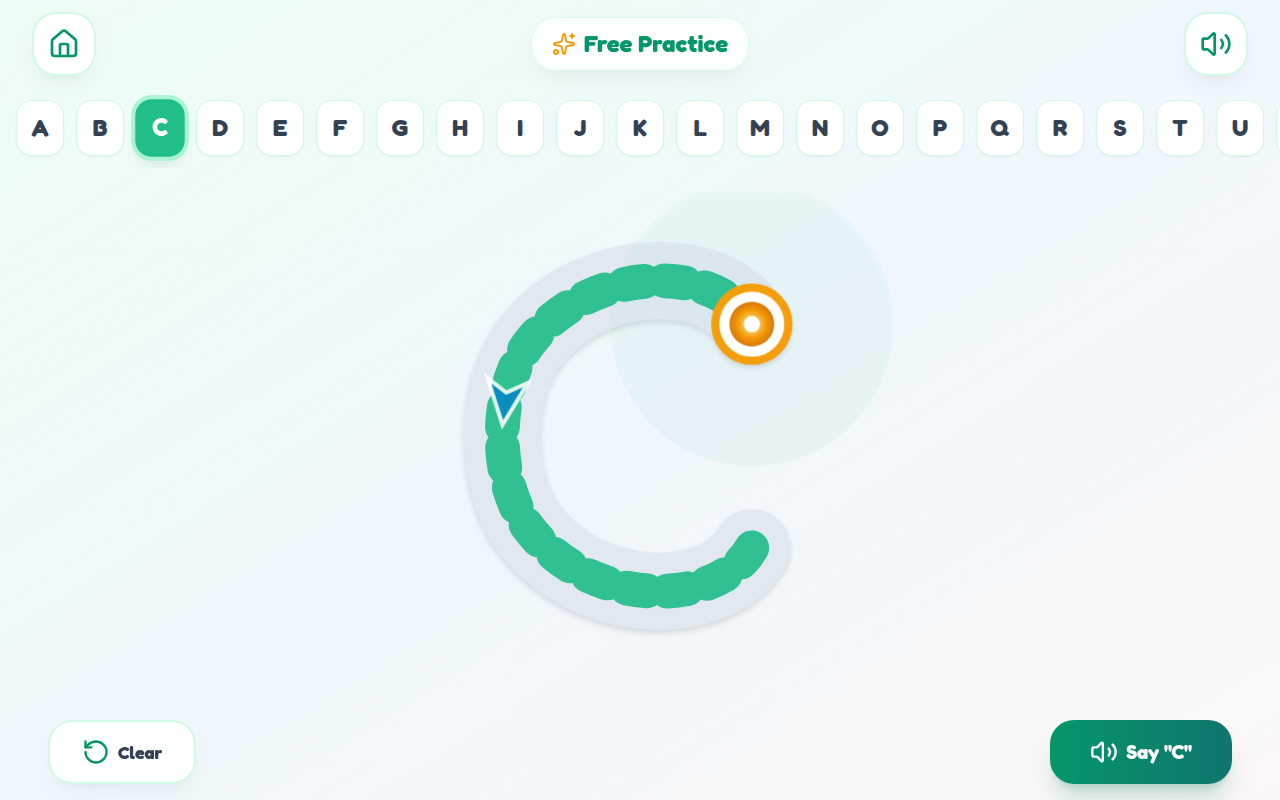
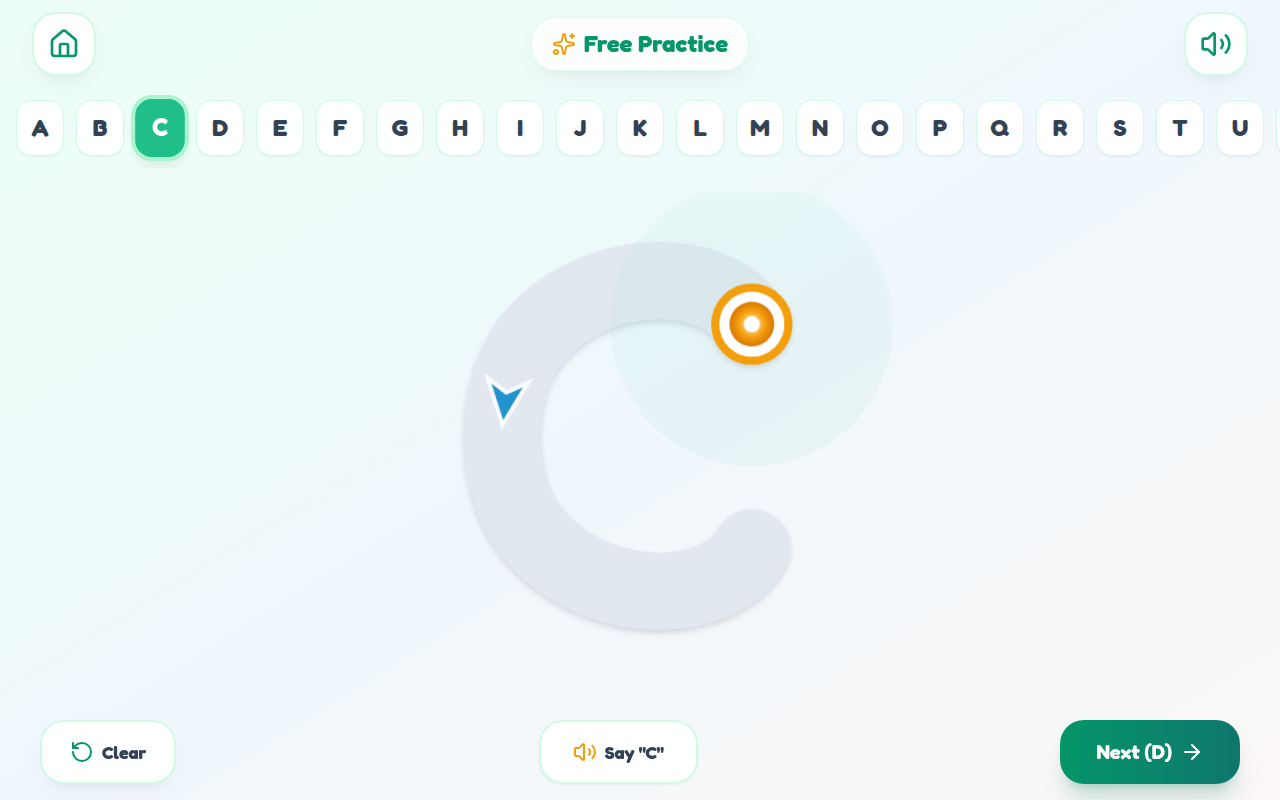
fix: remove inner dashed blue line from tracer guide, showing only directional arrow

diff --git a/src/components/LetterTracer.tsx b/src/components/LetterTracer.tsx
@@ -428,30 +428,7 @@ export const LetterTracer: React.FC<LetterTracerProps> = ({
             />
           ))}
 
-          {/* 2. INNER DASHED TRACING TRACK */}
-          {letterDef.strokes.map((stroke, idx) => {
-            const isCompleted = completedStrokes.includes(idx);
-            const isActive = idx === activeStrokeIdx && !isLetterSuccess;
-
-            if (isCompleted) return null;
-
-            return (
-              <path
-                key={`track-${stroke.id}`}
-                d={stroke.pathD}
-                fill="none"
-                stroke={isActive ? themeConfig.tracerTrackActive : themeConfig.tracerTrackInactive}
-                strokeWidth={guideStrokeWidth * 0.45}
-                strokeDasharray={isActive ? '10 10' : '6 12'}
-                strokeLinecap="round"
-                strokeLinejoin="round"
-                opacity={isActive ? 0.85 : 0.3}
-                className="pointer-events-none"
-              />
-            );
-          })}
-
-          {/* 3. COMPLETED STROKES LAYER: Solid vibrant themed color + gradient overlay (never disappears!) */}
+          {/* 2. COMPLETED STROKES LAYER: Solid vibrant themed color + gradient overlay (never disappears!) */}
           {letterDef.strokes.map((stroke, idx) => {
             if (!completedStrokes.includes(idx)) return null;
             return (

diff --git a/public/sw.js b/public/sw.js
@@ -1,5 +1,5 @@
-// Trace A Word - Service Worker v7
-const CACHE_NAME = 'trace-a-word-v7';
+// Trace A Word - Service Worker v8
+const CACHE_NAME = 'trace-a-word-v8';
 const PRECACHE_ASSETS = [
   '/',
   '/index.html',
